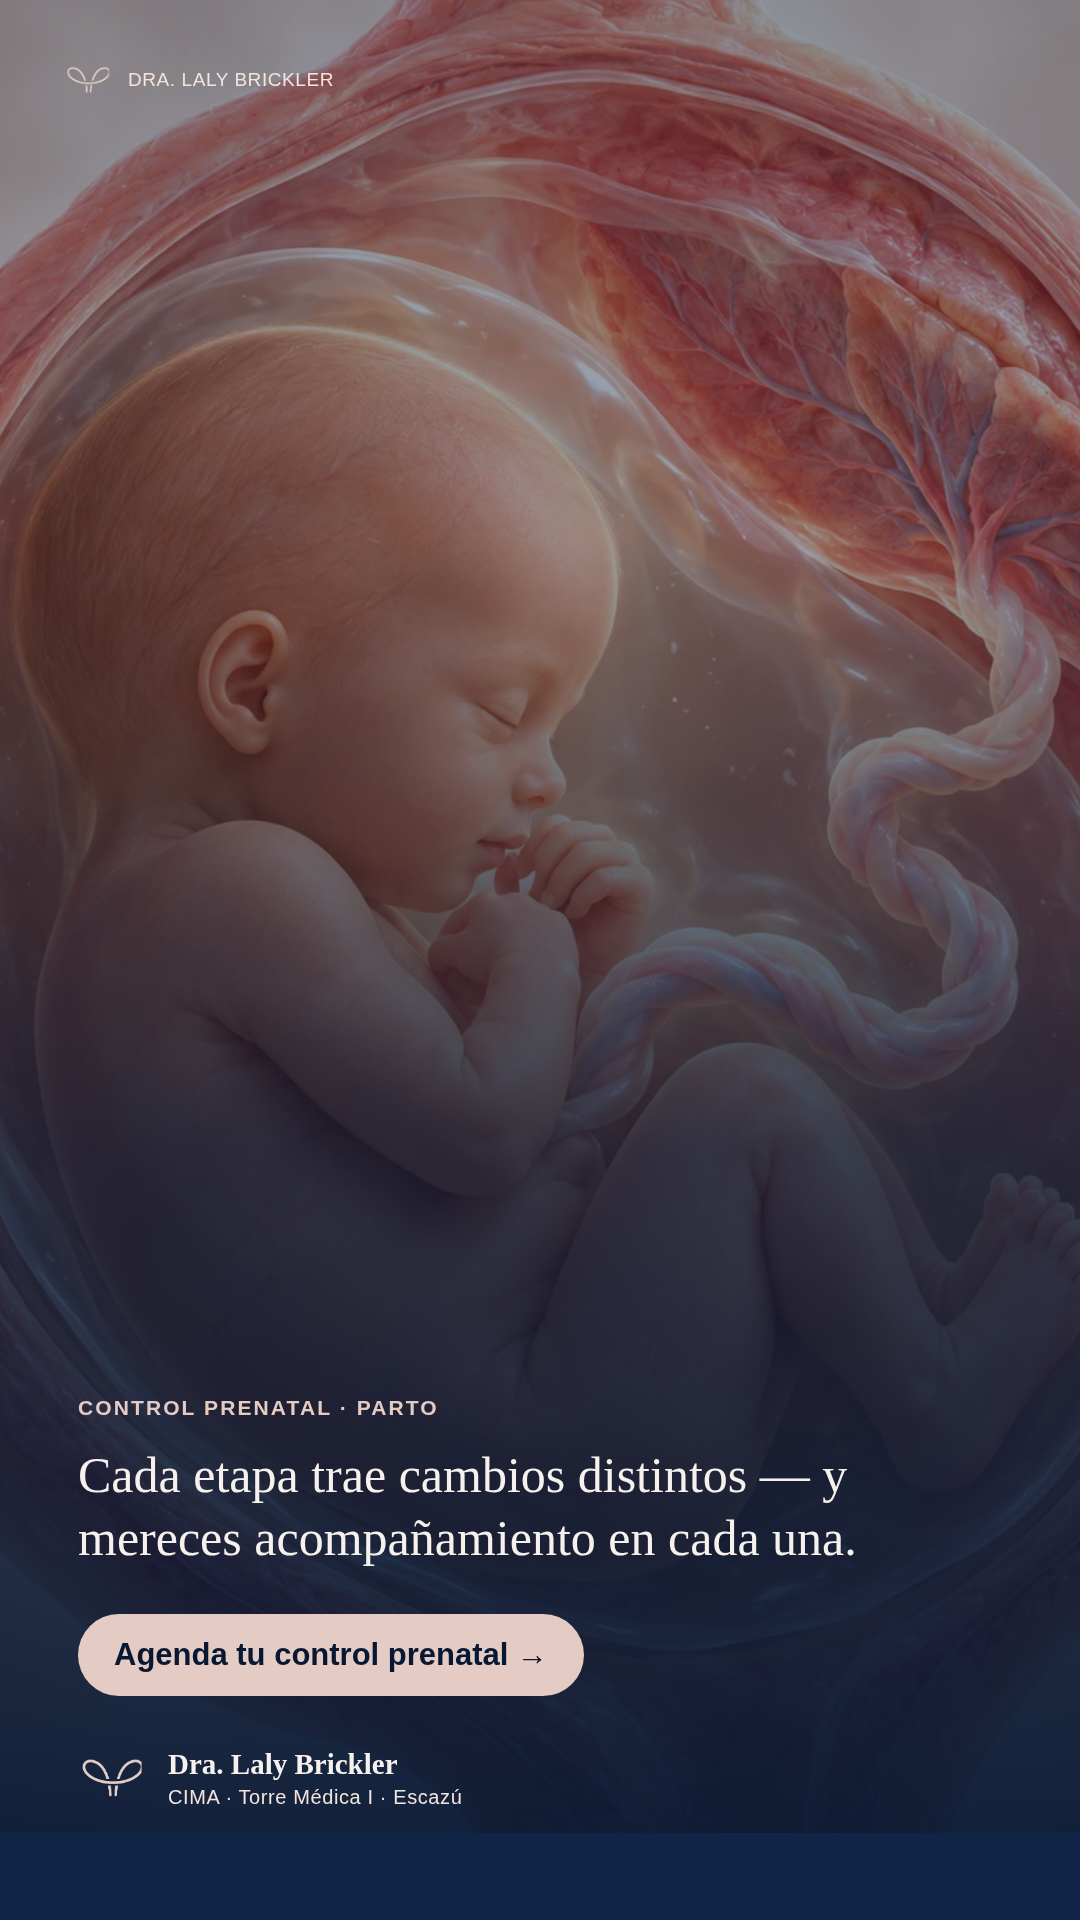
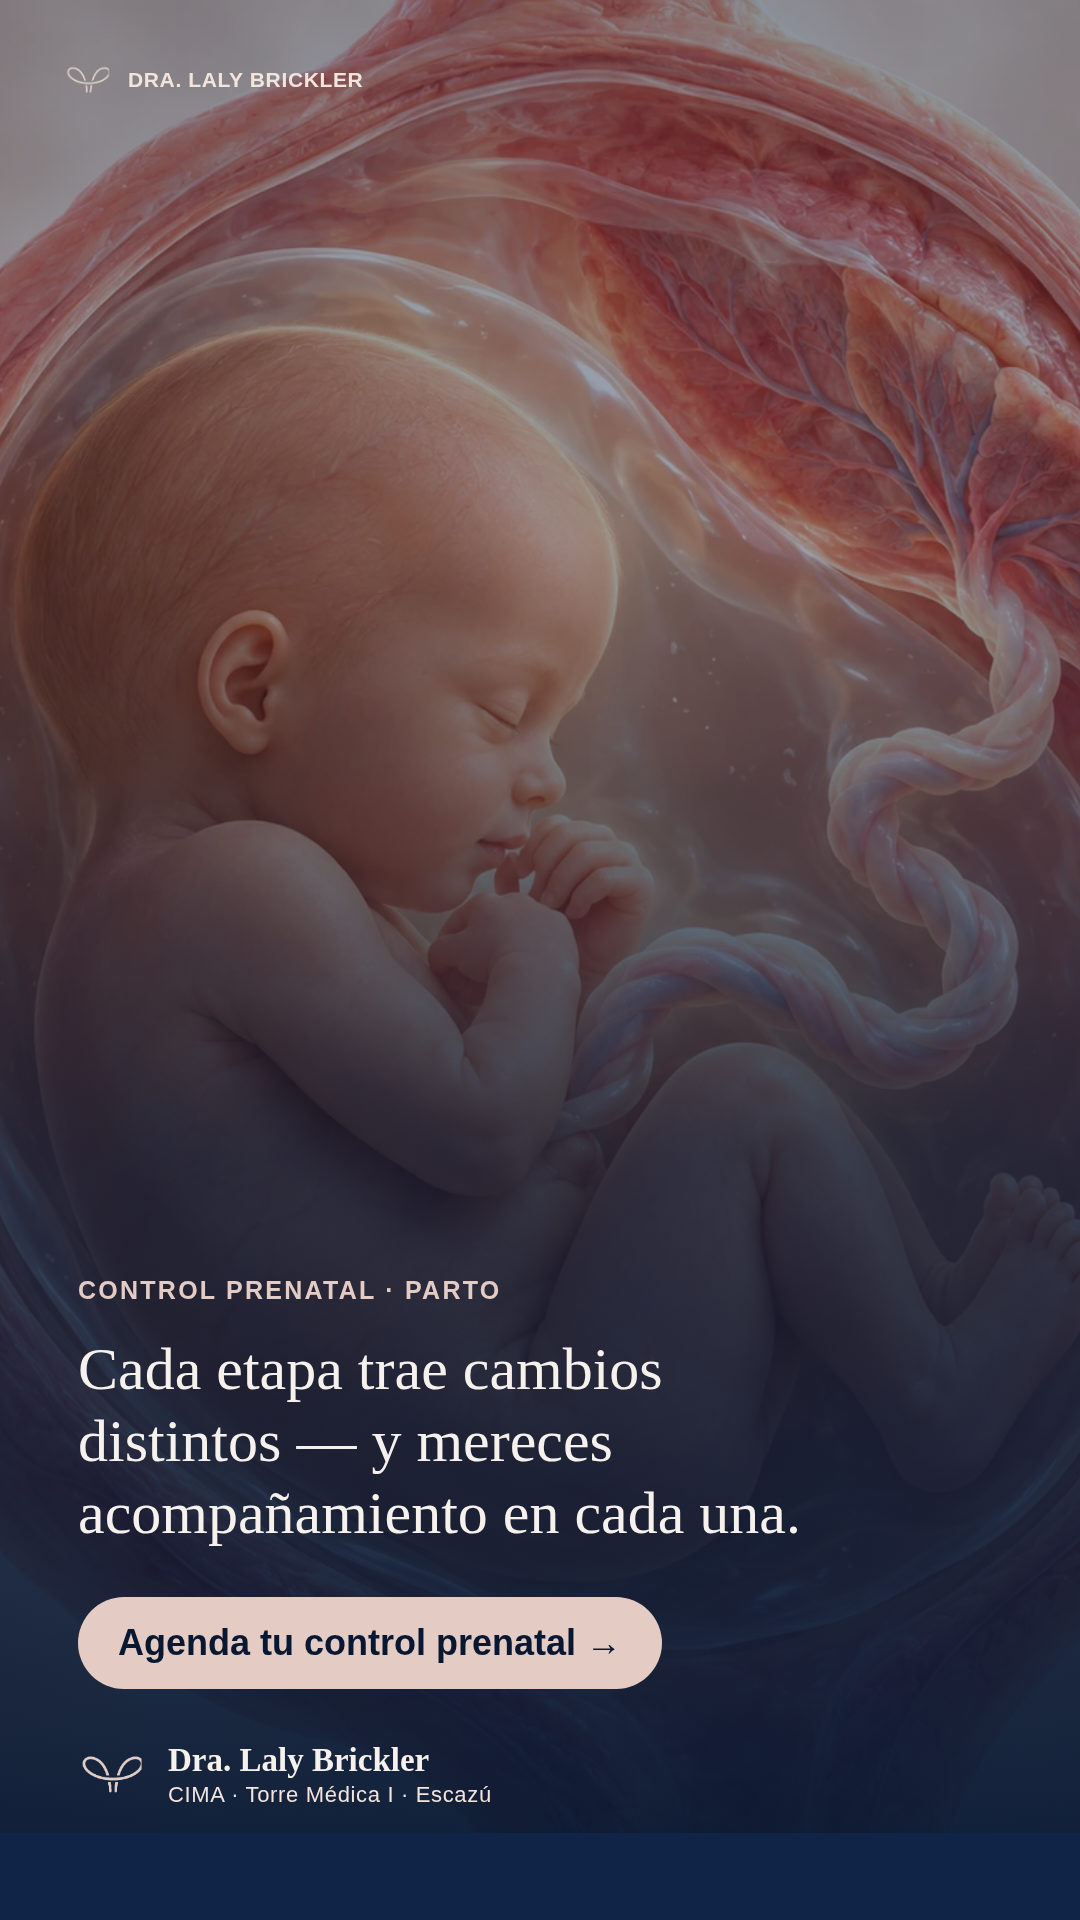
Increase type scale across the pregnancy carousel
Bump headline, badge, stat and CTA font sizes ~15-20% for a more
eye-catching read on feed-sized thumbnails, verified to still
fit within each 1080x1920 frame.

Claude-Session: https://claude.ai/code/session_01LtTLwZrPZbyahK5aD18j7d

Changed region(s): [[0.0611, 0.6562, 0.7944, 0.9375], [0.1222, 0.0312, 0.3361, 0.0625]]

diff --git a/assets/export-embarazo/slide-3-t2.html b/assets/export-embarazo/slide-3-t2.html
@@ -13,7 +13,7 @@ html,body{width:1080px;height:1920px;overflow:hidden;background:#0F2446;font-fam
 
 .brand{position:absolute;top:64px;left:64px;display:flex;align-items:center;gap:16px;z-index:3}
 .brand img{width:48px;height:auto;display:block}
-.brand span{font-size:19px;color:#F3E4DE;letter-spacing:.03em;font-weight:500}
+.brand span{font-size:21px;color:#F3E4DE;letter-spacing:.03em;font-weight:600}
 .dots{position:absolute;top:76px;right:64px;display:flex;gap:12px;z-index:3}
 .dot{width:12px;height:12px;border-radius:50%;border:2px solid #E4CCC5}
 .dot.on{background:#E4CCC5}
@@ -21,13 +21,13 @@ html,body{width:1080px;height:1920px;overflow:hidden;background:#0F2446;font-fam
 .body{position:absolute;inset:0;z-index:2;display:flex;flex-direction:column;justify-content:flex-end;align-items:center;padding:0 72px 92px;text-align:center}
 .badge-row{display:flex;align-items:center;gap:14px;margin-bottom:16px}
 .badge-row svg{flex:none}
-.badge{background:#E4CCC5;color:#081833;font-weight:700;font-size:23px;letter-spacing:.04em;padding:11px 28px;border-radius:999px;text-transform:uppercase}
-.weeks{color:#F3E4DE;font-size:22px;letter-spacing:.03em;margin-bottom:34px}
+.badge{background:#E4CCC5;color:#081833;font-weight:700;font-size:28px;letter-spacing:.03em;padding:13px 32px;border-radius:999px;text-transform:uppercase}
+.weeks{color:#F3E4DE;font-size:26px;letter-spacing:.03em;margin-bottom:38px;font-weight:500}
 
 .stat{width:100%;max-width:840px;margin-bottom:28px}
-.stat .label{display:flex;align-items:center;justify-content:center;gap:12px;font-size:18px;letter-spacing:.08em;text-transform:uppercase;color:#E4CCC5;font-weight:700;margin-bottom:12px}
+.stat .label{display:flex;align-items:center;justify-content:center;gap:12px;font-size:21px;letter-spacing:.07em;text-transform:uppercase;color:#E4CCC5;font-weight:700;margin-bottom:12px}
 .stat .label::before{content:"";width:8px;height:8px;border-radius:50%;background:#E4CCC5}
-.stat p{font-family:'Fraunces',Georgia,serif;color:#F6F1ED;font-size:28px;line-height:1.38;font-weight:500}
+.stat p{font-family:'Fraunces',Georgia,serif;color:#F6F1ED;font-size:34px;line-height:1.34;font-weight:500}
 </style></head>
 <body>
 <div class="frame">
@@ -39,7 +39,7 @@ html,body{width:1080px;height:1920px;overflow:hidden;background:#0F2446;font-fam
 
   <div class="body">
     <div class="badge-row">
-      <svg width="34" height="34" viewBox="0 0 220 220"><circle cx="110" cy="110" r="95" fill="none" stroke="#E4CCC5" stroke-width="7"/><circle cx="110" cy="110" r="63" fill="#E4CCC5"/></svg>
+      <svg width="42" height="42" viewBox="0 0 220 220"><circle cx="110" cy="110" r="95" fill="none" stroke="#E4CCC5" stroke-width="7"/><circle cx="110" cy="110" r="63" fill="#E4CCC5"/></svg>
       <span class="badge">Segundo trimestre</span>
     </div>
     <span class="weeks">Semanas 14 – 27</span>

diff --git a/assets/export-embarazo/slide-4-t3.html b/assets/export-embarazo/slide-4-t3.html
@@ -13,7 +13,7 @@ html,body{width:1080px;height:1920px;overflow:hidden;background:#0F2446;font-fam
 
 .brand{position:absolute;top:64px;left:64px;display:flex;align-items:center;gap:16px;z-index:3}
 .brand img{width:48px;height:auto;display:block}
-.brand span{font-size:19px;color:#F3E4DE;letter-spacing:.03em;font-weight:500}
+.brand span{font-size:21px;color:#F3E4DE;letter-spacing:.03em;font-weight:600}
 .dots{position:absolute;top:76px;right:64px;display:flex;gap:12px;z-index:3}
 .dot{width:12px;height:12px;border-radius:50%;border:2px solid #E4CCC5}
 .dot.on{background:#E4CCC5}
@@ -21,13 +21,13 @@ html,body{width:1080px;height:1920px;overflow:hidden;background:#0F2446;font-fam
 .body{position:absolute;inset:0;z-index:2;display:flex;flex-direction:column;justify-content:flex-end;align-items:center;padding:0 72px 92px;text-align:center}
 .badge-row{display:flex;align-items:center;gap:14px;margin-bottom:16px}
 .badge-row svg{flex:none}
-.badge{background:#E4CCC5;color:#081833;font-weight:700;font-size:23px;letter-spacing:.04em;padding:11px 28px;border-radius:999px;text-transform:uppercase}
-.weeks{color:#F3E4DE;font-size:22px;letter-spacing:.03em;margin-bottom:34px}
+.badge{background:#E4CCC5;color:#081833;font-weight:700;font-size:28px;letter-spacing:.03em;padding:13px 32px;border-radius:999px;text-transform:uppercase}
+.weeks{color:#F3E4DE;font-size:26px;letter-spacing:.03em;margin-bottom:38px;font-weight:500}
 
 .stat{width:100%;max-width:840px;margin-bottom:28px}
-.stat .label{display:flex;align-items:center;justify-content:center;gap:12px;font-size:18px;letter-spacing:.08em;text-transform:uppercase;color:#E4CCC5;font-weight:700;margin-bottom:12px}
+.stat .label{display:flex;align-items:center;justify-content:center;gap:12px;font-size:21px;letter-spacing:.07em;text-transform:uppercase;color:#E4CCC5;font-weight:700;margin-bottom:12px}
 .stat .label::before{content:"";width:8px;height:8px;border-radius:50%;background:#E4CCC5}
-.stat p{font-family:'Fraunces',Georgia,serif;color:#F6F1ED;font-size:28px;line-height:1.38;font-weight:500}
+.stat p{font-family:'Fraunces',Georgia,serif;color:#F6F1ED;font-size:34px;line-height:1.34;font-weight:500}
 </style></head>
 <body>
 <div class="frame">
@@ -39,7 +39,7 @@ html,body{width:1080px;height:1920px;overflow:hidden;background:#0F2446;font-fam
 
   <div class="body">
     <div class="badge-row">
-      <svg width="34" height="34" viewBox="0 0 220 220"><circle cx="110" cy="110" r="95" fill="none" stroke="#E4CCC5" stroke-width="7"/><circle cx="110" cy="110" r="93" fill="#E4CCC5"/></svg>
+      <svg width="42" height="42" viewBox="0 0 220 220"><circle cx="110" cy="110" r="95" fill="none" stroke="#E4CCC5" stroke-width="7"/><circle cx="110" cy="110" r="93" fill="#E4CCC5"/></svg>
       <span class="badge">Tercer trimestre</span>
     </div>
     <span class="weeks">Semanas 28 – 40</span>

diff --git a/assets/export-embarazo/slide-2-t1.html b/assets/export-embarazo/slide-2-t1.html
@@ -13,7 +13,7 @@ html,body{width:1080px;height:1920px;overflow:hidden;background:#0F2446;font-fam
 
 .brand{position:absolute;top:64px;left:64px;display:flex;align-items:center;gap:16px;z-index:3}
 .brand img{width:48px;height:auto;display:block}
-.brand span{font-size:19px;color:#F3E4DE;letter-spacing:.03em;font-weight:500}
+.brand span{font-size:21px;color:#F3E4DE;letter-spacing:.03em;font-weight:600}
 .dots{position:absolute;top:76px;right:64px;display:flex;gap:12px;z-index:3}
 .dot{width:12px;height:12px;border-radius:50%;border:2px solid #E4CCC5}
 .dot.on{background:#E4CCC5}
@@ -21,13 +21,13 @@ html,body{width:1080px;height:1920px;overflow:hidden;background:#0F2446;font-fam
 .body{position:absolute;inset:0;z-index:2;display:flex;flex-direction:column;justify-content:flex-end;align-items:center;padding:0 72px 92px;text-align:center}
 .badge-row{display:flex;align-items:center;gap:14px;margin-bottom:16px}
 .badge-row svg{flex:none}
-.badge{background:#E4CCC5;color:#081833;font-weight:700;font-size:23px;letter-spacing:.04em;padding:11px 28px;border-radius:999px;text-transform:uppercase}
-.weeks{color:#F3E4DE;font-size:22px;letter-spacing:.03em;margin-bottom:34px}
+.badge{background:#E4CCC5;color:#081833;font-weight:700;font-size:28px;letter-spacing:.03em;padding:13px 32px;border-radius:999px;text-transform:uppercase}
+.weeks{color:#F3E4DE;font-size:26px;letter-spacing:.03em;margin-bottom:38px;font-weight:500}
 
 .stat{width:100%;max-width:840px;margin-bottom:28px}
-.stat .label{display:flex;align-items:center;justify-content:center;gap:12px;font-size:18px;letter-spacing:.08em;text-transform:uppercase;color:#E4CCC5;font-weight:700;margin-bottom:12px}
+.stat .label{display:flex;align-items:center;justify-content:center;gap:12px;font-size:21px;letter-spacing:.07em;text-transform:uppercase;color:#E4CCC5;font-weight:700;margin-bottom:12px}
 .stat .label::before{content:"";width:8px;height:8px;border-radius:50%;background:#E4CCC5}
-.stat p{font-family:'Fraunces',Georgia,serif;color:#F6F1ED;font-size:28px;line-height:1.38;font-weight:500}
+.stat p{font-family:'Fraunces',Georgia,serif;color:#F6F1ED;font-size:34px;line-height:1.34;font-weight:500}
 </style></head>
 <body>
 <div class="frame">
@@ -39,7 +39,7 @@ html,body{width:1080px;height:1920px;overflow:hidden;background:#0F2446;font-fam
 
   <div class="body">
     <div class="badge-row">
-      <svg width="34" height="34" viewBox="0 0 220 220"><circle cx="110" cy="110" r="95" fill="none" stroke="#E4CCC5" stroke-width="7"/><circle cx="110" cy="110" r="31" fill="#E4CCC5"/></svg>
+      <svg width="42" height="42" viewBox="0 0 220 220"><circle cx="110" cy="110" r="95" fill="none" stroke="#E4CCC5" stroke-width="7"/><circle cx="110" cy="110" r="31" fill="#E4CCC5"/></svg>
       <span class="badge">Primer trimestre</span>
     </div>
     <span class="weeks">Semanas 1 – 13</span>

diff --git a/assets/export-embarazo/slide-5-cta.html b/assets/export-embarazo/slide-5-cta.html
@@ -12,17 +12,17 @@ html,body{width:1080px;height:1920px;overflow:hidden;background:#0F2446;font-fam
 .photo-scrim{position:absolute;inset:0;background:linear-gradient(180deg, rgba(8,24,51,.25) 0%, rgba(8,24,51,.15) 28%, rgba(8,24,51,.72) 60%, rgba(8,24,51,.97) 100%);z-index:1}
 .brand{position:absolute;top:64px;left:64px;display:flex;align-items:center;gap:16px;z-index:3}
 .brand img{width:48px;height:auto;display:block}
-.brand span{font-size:19px;color:#F3E4DE;letter-spacing:.03em;font-weight:500}
+.brand span{font-size:21px;color:#F3E4DE;letter-spacing:.03em;font-weight:600}
 
 .body{position:absolute;inset:0;z-index:2;display:flex;flex-direction:column;justify-content:flex-end;padding:0 78px 110px}
-.eyebrow{color:#E4CCC5;font-size:21px;letter-spacing:.1em;text-transform:uppercase;font-weight:700;margin-bottom:24px}
-.cta-head{font-family:'Fraunces',Georgia,serif;color:#F6F1ED;font-size:50px;line-height:1.26;font-weight:500;max-width:860px;text-wrap:balance;margin-bottom:44px}
-.cta-pill{display:inline-flex;align-items:center;gap:16px;background:#E4CCC5;color:#081833;font-weight:700;font-size:31px;padding:23px 36px;border-radius:999px;width:fit-content}
+.eyebrow{color:#E4CCC5;font-size:25px;letter-spacing:.09em;text-transform:uppercase;font-weight:700;margin-bottom:28px}
+.cta-head{font-family:'Fraunces',Georgia,serif;color:#F6F1ED;font-size:60px;line-height:1.2;font-weight:500;max-width:880px;text-wrap:balance;margin-bottom:48px}
+.cta-pill{display:inline-flex;align-items:center;gap:16px;background:#E4CCC5;color:#081833;font-weight:700;font-size:36px;padding:25px 40px;border-radius:999px;width:fit-content}
 .cta-logo{display:flex;align-items:center;gap:22px;margin-top:50px}
 .cta-logo img{width:68px;height:auto;display:block}
 .cta-logo .ln{display:flex;flex-direction:column;line-height:1.3}
-.cta-logo .ln b{font-family:'Fraunces',Georgia,serif;color:#F6F1ED;font-size:29px;font-weight:600}
-.cta-logo .ln small{color:#F3E4DE;font-size:20px;letter-spacing:.03em}
+.cta-logo .ln b{font-family:'Fraunces',Georgia,serif;color:#F6F1ED;font-size:33px;font-weight:600}
+.cta-logo .ln small{color:#F3E4DE;font-size:22px;letter-spacing:.03em}
 </style></head>
 <body>
 <div class="frame">

diff --git a/assets/export-embarazo/slide-1-hook.html b/assets/export-embarazo/slide-1-hook.html
@@ -12,11 +12,11 @@ html,body{width:1080px;height:1920px;overflow:hidden;background:#0F2446;font-fam
 .photo-scrim{position:absolute;inset:0;background:linear-gradient(180deg, rgba(8,24,51,0) 0%, rgba(8,24,51,0) 34%, rgba(8,24,51,.64) 64%, rgba(8,24,51,.96) 100%);z-index:1}
 .brand{position:absolute;top:64px;left:64px;display:flex;align-items:center;gap:16px;z-index:3}
 .brand img{width:48px;height:auto;display:block}
-.brand span{font-size:19px;color:#F3E4DE;letter-spacing:.03em;font-weight:500}
+.brand span{font-size:21px;color:#F3E4DE;letter-spacing:.03em;font-weight:600}
 .body{position:absolute;inset:0;z-index:2;display:flex;flex-direction:column;justify-content:flex-end;padding:0 78px 86px}
-.hook{font-family:'Fraunces',Georgia,serif;font-weight:500;color:#F6F1ED;font-size:58px;line-height:1.24;text-wrap:balance}
+.hook{font-family:'Fraunces',Georgia,serif;font-weight:500;color:#F6F1ED;font-size:72px;line-height:1.18;text-wrap:balance}
 .hook em{font-style:normal;color:#E4CCC5}
-.swipe{margin-top:48px;text-align:center;font-size:21px;color:#E4CCC5;letter-spacing:.04em;font-weight:500}
+.swipe{margin-top:52px;text-align:center;font-size:25px;color:#E4CCC5;letter-spacing:.04em;font-weight:500}
 </style></head>
 <body>
 <div class="frame">
